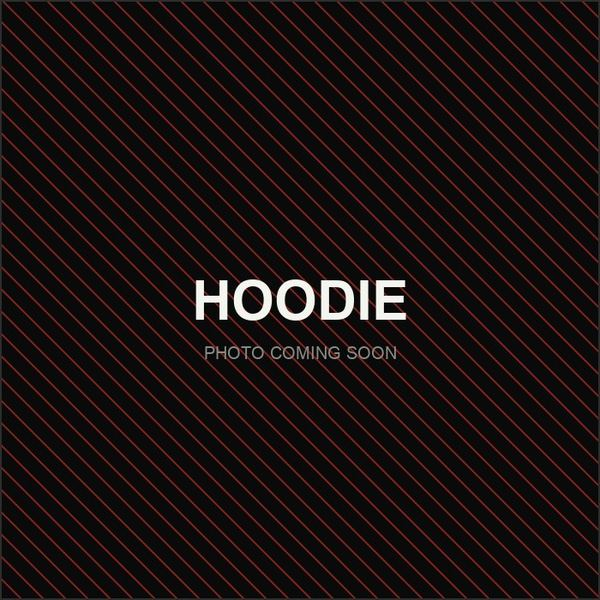
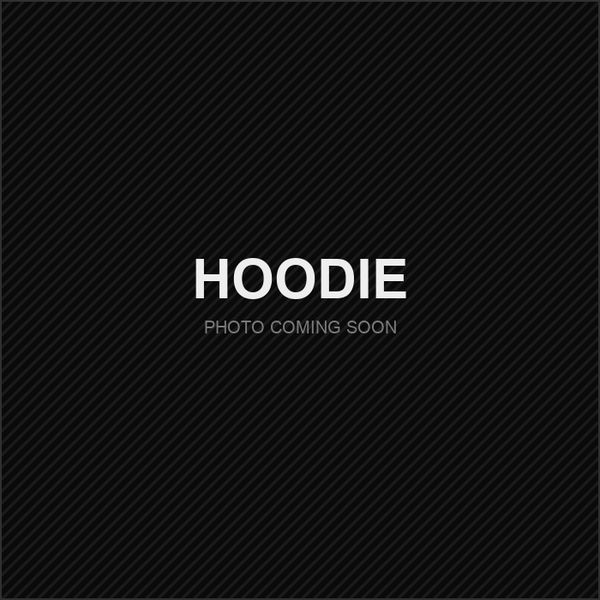
Shop: fotos que faltaban, saca una repetida y quita el rojo de los carteles
- Sugar Shirt Vol II: tenia solo el diseno. Le agregue las 3 fotos de la
  remera puesta que estaban sin subir en el Escritorio (frente, espalda con
  la nube y el arcoiris, y el detalle). Ahora tiene 6.
- Hoodie de Miami: la galeria mostraba dos veces la misma foto (la portada
  repetida como extra2). Saque la repetida y sume las dos que estaban en
  "MIAMI HOODIE AGREGAR". Ahora tiene 5 distintas.
- Psycho Buff: sume el diagrama de las 12 formas de usarlo y la foto en la
  moto, que estaban sin subir. Ahora tiene 10.
- Los carteles de "PHOTO COMING SOON" tenian rayas rojizas de fondo. Los
  rehice en gris sobre negro, mismo diseno, sin nada de rojo.

Verificado abriendo las galerias en el navegador: cargan todas, 0 fotos
rotas, 0 peticiones fallidas en las cinco paginas del sitio.

Changed region(s): [[0.0, 0.0, 1.0, 1.0]]

diff --git a/script.js b/script.js
@@ -1568,7 +1568,9 @@ const STATIC_PRODUCT_EXTRAS = {
     { type: 'image', src: 'images/shop/shop_buff_psycho/shop_buff_4.jpg', key: 'shop_buff_4' },
     { type: 'image', src: 'images/shop/shop_buff_psycho/shop_buff_5.jpg', key: 'shop_buff_5' },
     { type: 'image', src: 'images/shop/shop_buff_psycho/shop_buff_6.jpg', key: 'shop_buff_6' },
-    { type: 'image', src: 'images/shop/shop_buff_psycho/shop_buff_7.jpg', key: 'shop_buff_7' }
+    { type: 'image', src: 'images/shop/shop_buff_psycho/shop_buff_7.jpg', key: 'shop_buff_7' },
+    { type: 'image', src: 'images/shop/shop_buff_psycho/shop_buff_8.jpg', key: 'shop_buff_8' },
+    { type: 'image', src: 'images/shop/shop_buff_psycho/shop_buff_9.jpg', key: 'shop_buff_9' }
   ],
   shop_hoodie_bsas: [
     { type: 'image', src: 'images/shop/shop_hoodie_bsas/shop_hoodie_bsas_extra1.jpg', key: 'shop_hoodie_bsas_extra1' },
@@ -1577,7 +1579,8 @@ const STATIC_PRODUCT_EXTRAS = {
   ],
   shop_hoodie_miami: [
     { type: 'image', src: 'images/shop/shop_hoodie_miami/shop_hoodie_miami_extra1.jpg', key: 'shop_hoodie_miami_extra1' },
-    { type: 'image', src: 'images/shop/shop_hoodie_miami/shop_hoodie_miami_extra2.jpg', key: 'shop_hoodie_miami_extra2' }
+    { type: 'image', src: 'images/shop/shop_hoodie_miami/shop_hoodie_miami_extra3.jpg', key: 'shop_hoodie_miami_extra3' },
+    { type: 'image', src: 'images/shop/shop_hoodie_miami/shop_hoodie_miami_extra4.jpg', key: 'shop_hoodie_miami_extra4' }
   ],
   shop_tee_sugar2: [
     { type: 'image', src: 'images/shop/shop_tee_sugar2/shop_tee_sugar2_extra1.jpg', key: 'shop_tee_sugar2_extra1' },

diff --git a/index.html b/index.html
@@ -115,7 +115,7 @@
 </script>
 
 <!-- Fonts self-hosted below via embedded @font-face (no external dependency) -->
-<link rel="stylesheet" href="style.css?v=113">
+<link rel="stylesheet" href="style.css?v=114">
 </head>
 <body oncontextmenu="return false;">
 
@@ -1140,7 +1140,7 @@
 <div class="edit-toast" id="editToast"></div>
 <input type="file" id="fileInput" accept="image/*" multiple style="display:none;">
 
-<script src="script.js?v=95"></script>
+<script src="script.js?v=96"></script>
 
 </body>
 </html>

diff --git a/es/index.html b/es/index.html
@@ -116,7 +116,7 @@
 </script>
 
 <!-- Fonts self-hosted below via embedded @font-face (no external dependency) -->
-<link rel="stylesheet" href="style.css?v=113">
+<link rel="stylesheet" href="style.css?v=114">
 </head>
 <body oncontextmenu="return false;">
 
@@ -1142,7 +1142,7 @@
 <input type="file" id="fileInput" accept="image/*" multiple style="display:none;">
 
 <script>window.__forceLang="es";</script>
-<script src="script.js?v=95"></script>
+<script src="script.js?v=96"></script>
 
 </body>
 </html>

diff --git a/mural/flower-octopus.html b/mural/flower-octopus.html
@@ -54,7 +54,7 @@
  "width": "3.5m x 2.5m"
 }
 </script>
-<link rel="stylesheet" href="../style.css?v=113">
+<link rel="stylesheet" href="../style.css?v=114">
 <style>
   /* El marco se adapta a la foto, no al reves: la imagen se muestra con su
      proporcion real, asi no hay recorte NI franjas negras. Solo se limita la

diff --git a/mural/it-s-more-fun.html b/mural/it-s-more-fun.html
@@ -54,7 +54,7 @@
  "width": "3.5m x 1.2m"
 }
 </script>
-<link rel="stylesheet" href="../style.css?v=113">
+<link rel="stylesheet" href="../style.css?v=114">
 <style>
   /* El marco se adapta a la foto, no al reves: la imagen se muestra con su
      proporcion real, asi no hay recorte NI franjas negras. Solo se limita la

diff --git a/mural/medusa.html b/mural/medusa.html
@@ -54,7 +54,7 @@
  "width": "3.5m x 2.5m"
 }
 </script>
-<link rel="stylesheet" href="../style.css?v=113">
+<link rel="stylesheet" href="../style.css?v=114">
 <style>
   /* El marco se adapta a la foto, no al reves: la imagen se muestra con su
      proporcion real, asi no hay recorte NI franjas negras. Solo se limita la

diff --git a/mural/the-ballerina.html b/mural/the-ballerina.html
@@ -54,7 +54,7 @@
  "width": "2.5m x 1.2m"
 }
 </script>
-<link rel="stylesheet" href="../style.css?v=113">
+<link rel="stylesheet" href="../style.css?v=114">
 <style>
   /* El marco se adapta a la foto, no al reves: la imagen se muestra con su
      proporcion real, asi no hay recorte NI franjas negras. Solo se limita la

diff --git a/mural/the-boxing-kangaroo.html b/mural/the-boxing-kangaroo.html
@@ -54,7 +54,7 @@
  "width": "2.5m x 2.5m"
 }
 </script>
-<link rel="stylesheet" href="../style.css?v=113">
+<link rel="stylesheet" href="../style.css?v=114">
 <style>
   /* El marco se adapta a la foto, no al reves: la imagen se muestra con su
      proporcion real, asi no hay recorte NI franjas negras. Solo se limita la

diff --git a/mural/the-city-of-the-fury.html b/mural/the-city-of-the-fury.html
@@ -54,7 +54,7 @@
  "width": "4.5m x 2.8m"
 }
 </script>
-<link rel="stylesheet" href="../style.css?v=113">
+<link rel="stylesheet" href="../style.css?v=114">
 <style>
   /* El marco se adapta a la foto, no al reves: la imagen se muestra con su
      proporcion real, asi no hay recorte NI franjas negras. Solo se limita la

diff --git a/mural/the-eyes.html b/mural/the-eyes.html
@@ -54,7 +54,7 @@
  "width": "4.2m x 1.2m"
 }
 </script>
-<link rel="stylesheet" href="../style.css?v=113">
+<link rel="stylesheet" href="../style.css?v=114">
 <style>
   /* El marco se adapta a la foto, no al reves: la imagen se muestra con su
      proporcion real, asi no hay recorte NI franjas negras. Solo se limita la

diff --git a/mural/the-king-of-kings.html b/mural/the-king-of-kings.html
@@ -54,7 +54,7 @@
  "width": "1.7m x 3.5m"
 }
 </script>
-<link rel="stylesheet" href="../style.css?v=113">
+<link rel="stylesheet" href="../style.css?v=114">
 <style>
   /* El marco se adapta a la foto, no al reves: la imagen se muestra con su
      proporcion real, asi no hay recorte NI franjas negras. Solo se limita la

diff --git a/mural/tlaloc.html b/mural/tlaloc.html
@@ -54,7 +54,7 @@
  "width": "2.5m x 2.5m"
 }
 </script>
-<link rel="stylesheet" href="../style.css?v=113">
+<link rel="stylesheet" href="../style.css?v=114">
 <style>
   /* El marco se adapta a la foto, no al reves: la imagen se muestra con su
      proporcion real, asi no hay recorte NI franjas negras. Solo se limita la
